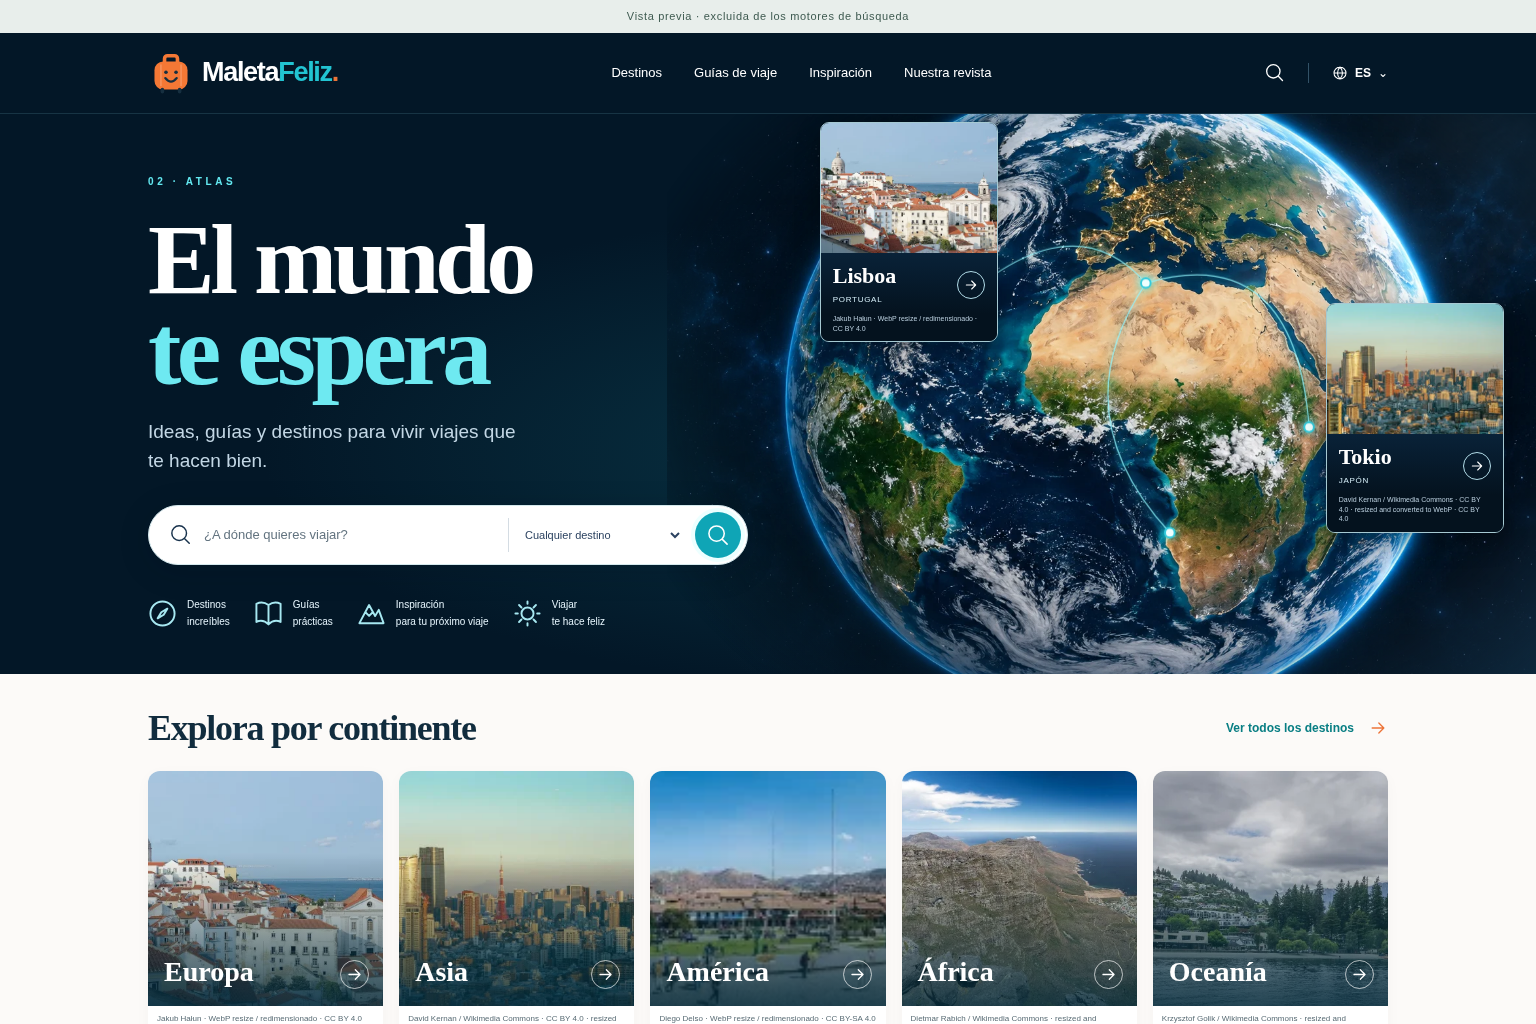
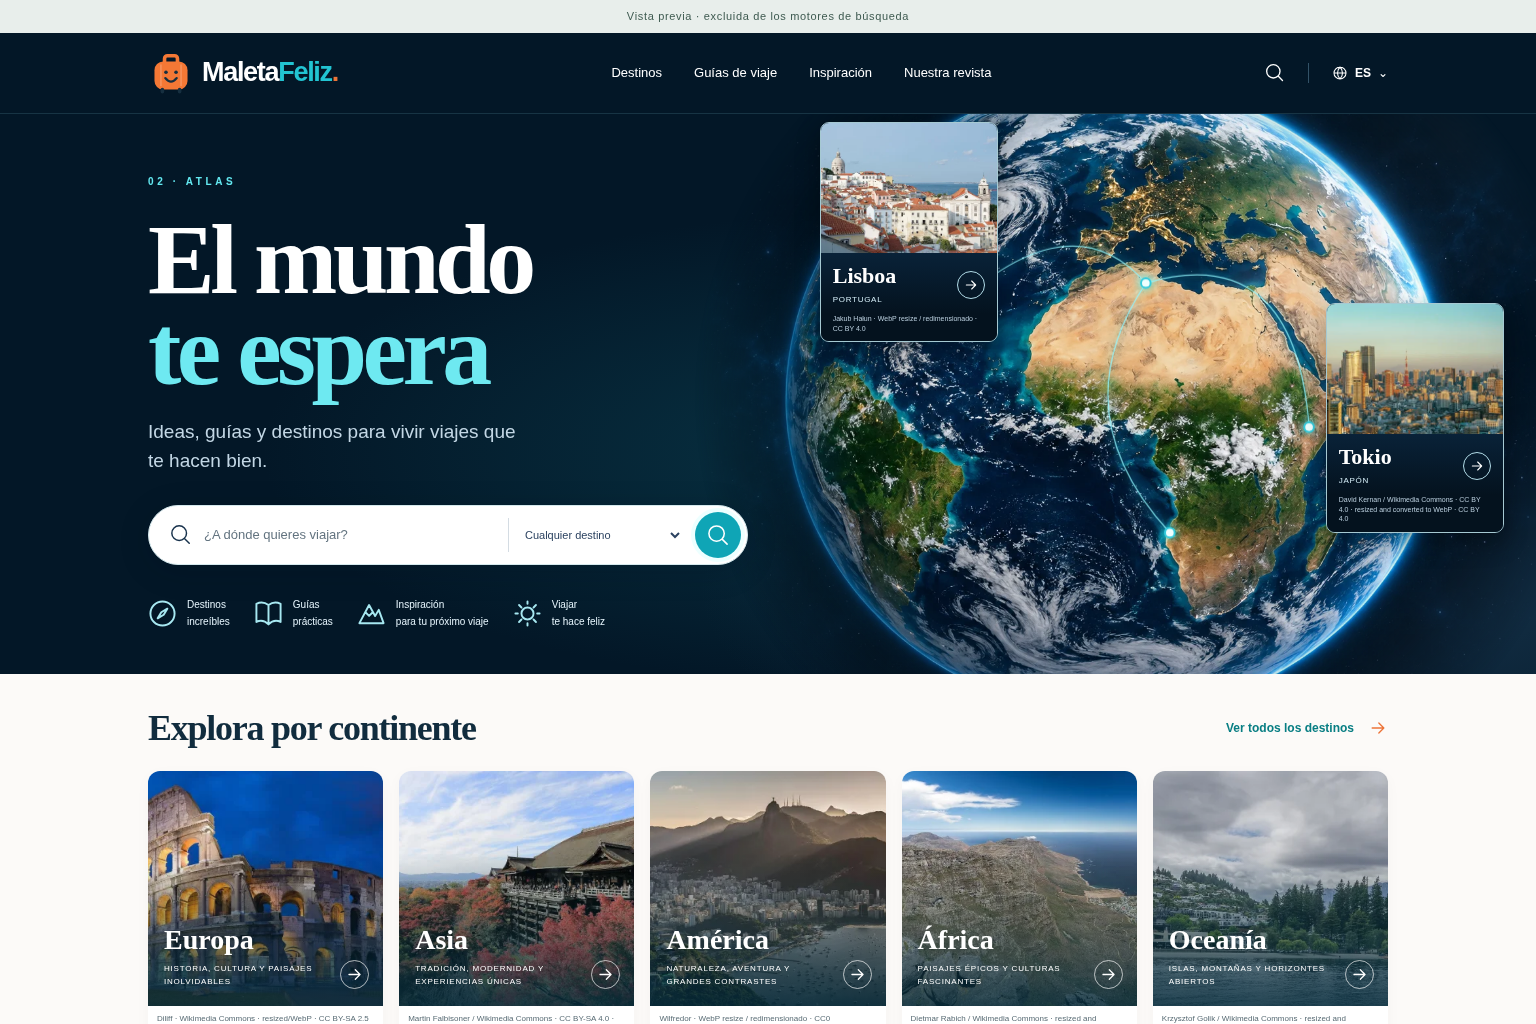
Preserve latest bilingual guides and finalize dark Atlas homepage

Changed region(s): [[0.0938, 0.75, 0.6562, 1.0], [0.75, 0.9062, 0.8438, 0.9688], [0.5, 0.2812, 0.5312, 0.4375]]

diff --git a/src/styles/global.css b/src/styles/global.css
@@ -1839,7 +1839,7 @@ body:has(.explorer-hero) .mobile-menu nav { background: #062133; }
 .explorer-promises svg { color: #a7e8f1; flex-shrink: 0; }
 .travel-globe { position: absolute; width: min(900px, 69%); height: 670px; aspect-ratio: auto; right: -2%; top: -45px; z-index: 1; }
 .travel-globe:before { display: none; }
-.earth { width: 100%; height: 100%; object-fit: cover; object-position: center; max-width: none; mask-image: radial-gradient(ellipse 68% 70% at 53% 47%, black 58%, transparent 88%); }
+.earth { width: 100%; height: 100%; object-fit: cover; object-position: center; max-width: none; mask-image: radial-gradient(ellipse 52% 68% at 53% 49%, black 63%, transparent 96%); }
 .globe-caption, .atlas-note { display: none; }
 .globe-routes { inset: 7% 12%; width: 76%; height: 86%; filter: drop-shadow(0 0 5px #27e9f5); }
 .globe-routes > path { stroke: #93f7ff; stroke-width: 1.3; stroke-dasharray: none; opacity: .8; }
@@ -1931,3 +1931,4 @@ body:has(.explorer-hero) .mobile-menu nav { background: #062133; }
  .continent-band .section-heading > .text-link { font-size: 0; margin-top: 0; }
  .continent-band .section-heading h2 { font-size: 29px; }
 }
+.continent-description { font-size: 8px; line-height: 1.65; letter-spacing: .1em; text-transform: uppercase; max-width: 83%; margin-top: 6px; }

diff --git a/tests/e2e/site.spec.ts b/tests/e2e/site.spec.ts
@@ -152,7 +152,7 @@ test('Atlas search and destination cards work, with no overflow at intermediate 
 test('Atlas remains navigable without JavaScript or the globe asset', async ({ browser }) => {
   const context = await browser.newContext({ javaScriptEnabled: false });
   const page = await context.newPage();
-  await page.route('**/design/globe.svg', r => r.abort());
+  await page.route('**/design/earth-atlas.webp', r => r.abort());
   await page.goto('/en/');
   await expect(page.locator('h1')).toContainText('A world');
   await expect(page.locator('.explorer-search input')).toBeVisible();

diff --git a/docs/design/ATLAS-NIGHT.md b/docs/design/ATLAS-NIGHT.md
@@ -1,0 +1,13 @@
+# Atlas night revision
+
+The user requested the dark reference more closely and explicitly authorized publication. This revision supersedes the light Explorer preview documented in EXPLORER-ATLAS.md.
+
+The homepage now uses a navy header and hero, large white and cyan headings, a realistic decorative globe, two dark floating cards linked to existing Lisbon/Tokyo guides, and continent photographs immediately below the hero. The search includes a working continent selector using the existing search query interface. The orange suitcase mark is retained. Mobile places the headline and search before the globe. Existing article/category reading styles remain light.
+
+`public/design/earth-atlas.webp` is an AI-generated decorative Earth illustration, optimized to approximately 295 KiB. It is not presented as a documentary photograph, destination photo or geographical data source. All destination photographs are unchanged licensed assets from the existing manifest. The earlier vector globe remains available as an archived design asset but is not loaded by the homepage. No WebGL, runtime library or paid API was added.
+
+Before publishing, remote main was fetched. New destination and Christmas publications were merged without replacing their content, routes, templates or photographs. `atlas-night-preservation.json` records the remote baseline and checks 3,702 protected files: none changed; 120 published ES articles and 120 EN articles retained. This later inventory supersedes the earlier 65-per-language count.
+
+The globe routes pause offscreen/in hidden tabs and respect reduced motion. All text, navigation and search are real HTML. Advertising components, analytics/consent, identifiers, provider scripts, legal exclusions, popunder-disabled state, headers and existing ad dimensions remain unchanged.
+
+Screenshots: `atlas-night-desktop.png` and `atlas-night-mobile.png`. Production validation, deployment and public verification results are recorded with the task delivery. Earlier screenshot/inventory files are historical evidence from the initial light preview.
